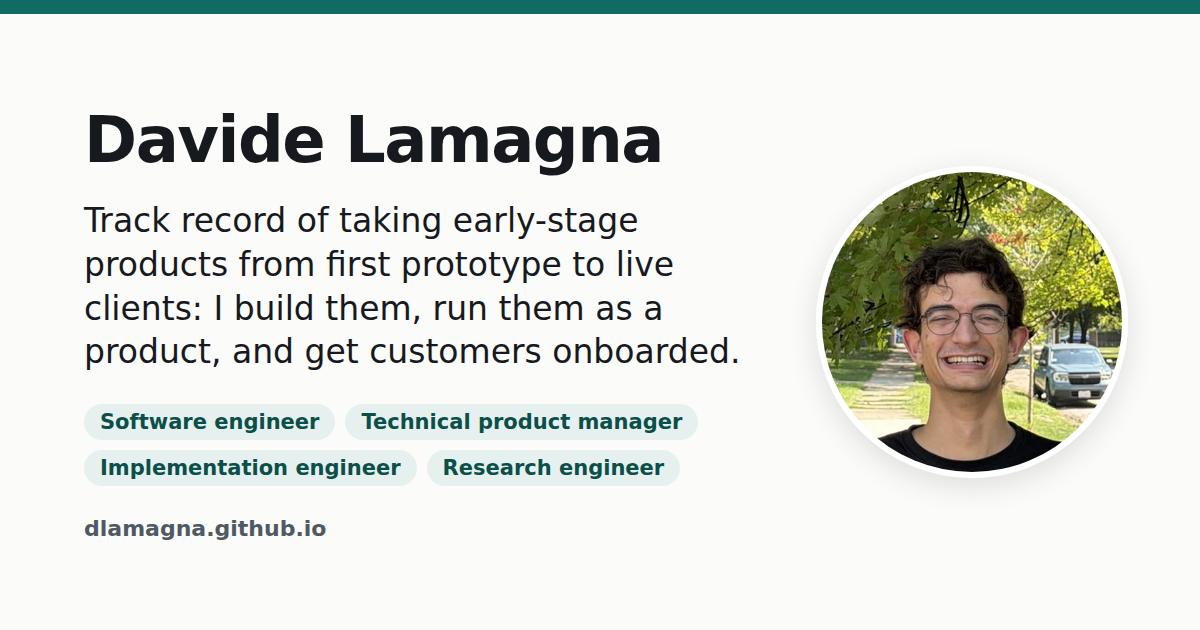
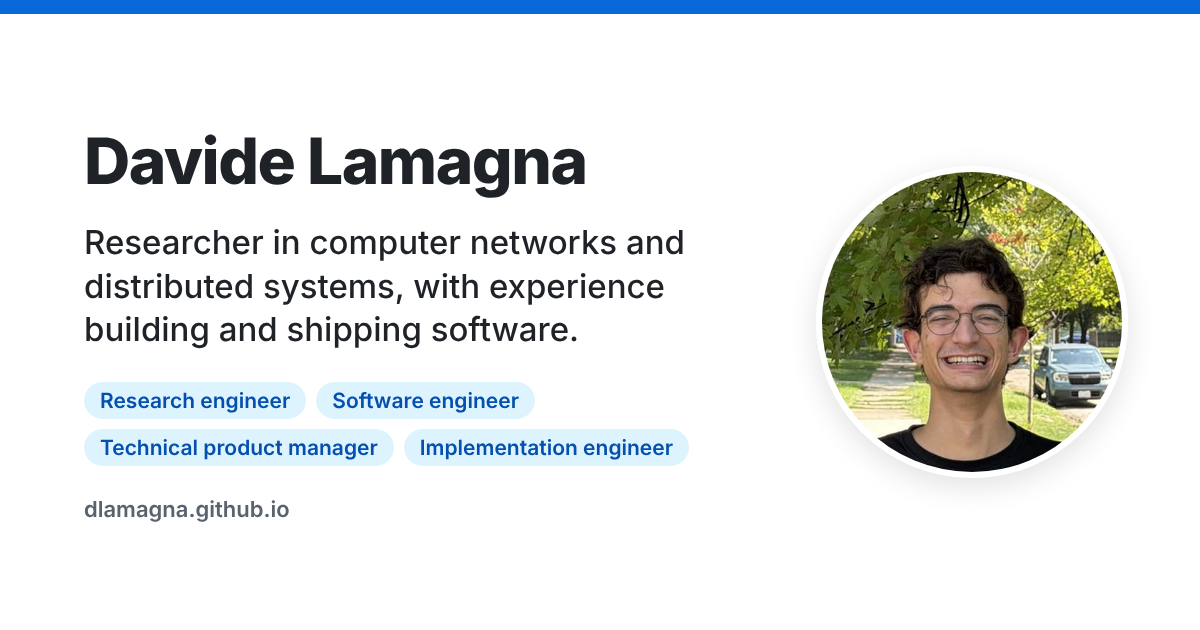
Default to light mode with blue accents; refresh preview image (#12)
Claude-Session: https://claude.ai/code/session_01HjaXGdJKzXSNgHi2nNHZ7W

Changed region(s): [[0.0617, 0.181, 0.6167, 0.8746], [0.0, 0.0, 1.0, 0.0302]]

diff --git a/scripts/og-image.html b/scripts/og-image.html
@@ -10,16 +10,16 @@
   html, body { margin: 0; width: 1200px; height: 630px; }
   body {
     font-family: system-ui, -apple-system, "Segoe UI", Roboto, "Helvetica Neue", Arial, sans-serif;
-    background: #fbfbf9; color: #16191d;
+    background: #ffffff; color: #1f2328;
     display: grid; grid-template-columns: 1fr 300px; gap: 56px; align-items: center;
     padding: 0 84px; box-sizing: border-box;
-    border-top: 14px solid #0f6b63;
+    border-top: 14px solid #0969da;
   }
   .name { font-size: 64px; font-weight: 800; letter-spacing: -1.5px; margin: 0; }
   .headline { font-size: 33px; line-height: 1.32; font-weight: 500; margin: 22px 0 0; }
   .tags { display: flex; flex-wrap: wrap; gap: 10px; margin-top: 30px; }
-  .tags span { background: #e6f1ef; color: #0b4f49; border-radius: 999px; padding: 6px 16px; font-size: 21px; font-weight: 600; }
-  .url { margin-top: 30px; font-size: 22px; color: #4f5964; font-weight: 600; }
+  .tags span { background: #ddf4ff; color: #0550ae; border-radius: 999px; padding: 6px 16px; font-size: 21px; font-weight: 600; }
+  .url { margin-top: 30px; font-size: 22px; color: #59636e; font-weight: 600; }
   img { width: 300px; height: 300px; border-radius: 50%; object-fit: cover; border: 6px solid #fff; box-shadow: 0 8px 30px rgba(0,0,0,.12); }
 </style>
 </head>
@@ -27,7 +27,7 @@
   <div>
     <h1 class="name">Davide Lamagna</h1>
     <p class="headline"><!-- sync:headline -->Researcher in computer networks and distributed systems, with experience building and shipping software.<!-- /sync:headline --></p>
-    <div class="tags"><span>Software engineer</span><span>Technical product manager</span><span>Implementation engineer</span><span>Research engineer</span></div>
+    <div class="tags"><span>Research engineer</span><span>Software engineer</span><span>Technical product manager</span><span>Implementation engineer</span></div>
     <div class="url">dlamagna.github.io</div>
   </div>
   <img src="../assets/img/profile-og.jpg" alt="">

diff --git a/index.html b/index.html
@@ -1,20 +1,20 @@
 <!DOCTYPE html>
-<html lang="en-GB" data-theme="dark" data-theme-toggle="on">
+<html lang="en-GB" data-theme-toggle="on">
 <head>
   <meta charset="UTF-8">
   <meta name="viewport" content="width=device-width, initial-scale=1">
   <title>Davide Lamagna: software engineer and technical product manager</title>
   <meta name="description" content="Researcher in computer networks and distributed systems, with experience building and shipping software.">
   <link rel="canonical" href="https://dlamagna.github.io/">
-  <meta name="color-scheme" content="dark light">
-  <meta name="theme-color" content="#0d1117">
-  <!-- Theme: dark by default (data-theme="dark" on <html>). Applies a saved "light" choice before first paint, to avoid a flash.
-       Dark only, for good: change data-theme-toggle="on" to "off" on <html> above. -->
+  <meta name="color-scheme" content="light dark">
+  <meta name="theme-color" content="#ffffff">
+  <!-- Theme: light by default. Applies a saved "dark" choice before first paint, to avoid a flash.
+       Light only, for good: change data-theme-toggle="on" to "off" on <html> above. -->
   <script>
     (function () {
       var d = document.documentElement;
       if (d.getAttribute('data-theme-toggle') === 'off') return;
-      try { if (localStorage.getItem('theme') === 'light') d.removeAttribute('data-theme'); } catch (e) {}
+      try { if (localStorage.getItem('theme') === 'dark') d.setAttribute('data-theme', 'dark'); } catch (e) {}
     })();
   </script>
 

diff --git a/assets/css/site.css b/assets/css/site.css
@@ -1,4 +1,4 @@
-/* Davide Lamagna: site styles. Dark by default (data-theme="dark" on <html>); the header toggle switches to light and remembers the choice. */
+/* Davide Lamagna: site styles. Light by default; dark when the visitor picks it with the header toggle (data-theme="dark" on <html>). */
 
 :root {
   color-scheme: light;
@@ -8,11 +8,11 @@
   --text: #1f2328;
   --muted: #59636e;        /* 6.3:1 on --bg */
   --border: #d1d9e0;
-  --accent: #1a7f37;       /* 5.1:1 on --bg, used for links and the primary button */
-  --accent-strong: #116329;
+  --accent: #0969da;       /* 5.2:1 on --bg, used for links and the primary button */
+  --accent-strong: #0550ae;
   --on-accent: #ffffff;
-  --tag-bg: #dafbe1;
-  --tag-text: #0f5323;
+  --tag-bg: #ddf4ff;
+  --tag-text: #0550ae;
   --todo-bg: #fff6db;
   --todo-text: #6b4b00;
   --todo-border: #e3c565;
@@ -32,15 +32,15 @@
   --text: #e6edf3;
   --muted: #9aa5b1;      /* 7.6:1 on --bg */
   --border: #30363d;
-  --accent: #56d364;     /* 11:1 on --bg */
-  --accent-strong: #7ee787;
-  --on-accent: #04210d;
-  --tag-bg: #0f2a18;
-  --tag-text: #7ee787;
+  --accent: #58a6ff;     /* 7.9:1 on --bg */
+  --accent-strong: #79c0ff;
+  --on-accent: #04142e;
+  --tag-bg: #0c2340;
+  --tag-text: #79c0ff;
   --todo-bg: #33290d;
   --todo-text: #f3d98a;
   --todo-border: #7a6420;
-  --ok: #56d364;
+  --ok: #3fb950;
   --shadow: none;
 }
 

diff --git a/demos/agentic-devops/index.html b/demos/agentic-devops/index.html
@@ -1,19 +1,19 @@
 <!DOCTYPE html>
-<html lang="en-GB" data-theme="dark" data-theme-toggle="on">
+<html lang="en-GB" data-theme-toggle="on">
 <head>
   <meta charset="UTF-8">
   <meta name="viewport" content="width=device-width, initial-scale=1">
   <title>Agentic DevOps: running a team of coding agents · Davide Lamagna</title>
   <meta name="description" content="How Agentic DevOps works: a Claude Code plugin that lets one lead AI agent run a team of helper agents on the same codebase.">
   <link rel="canonical" href="https://dlamagna.github.io/demos/agentic-devops/">
-  <meta name="color-scheme" content="dark light">
-  <meta name="theme-color" content="#0d1117">
+  <meta name="color-scheme" content="light dark">
+  <meta name="theme-color" content="#ffffff">
   <!-- Same theme switch as the home page: "off" on <html> keeps the page light only. -->
   <script>
     (function () {
       var d = document.documentElement;
       if (d.getAttribute('data-theme-toggle') === 'off') return;
-      try { if (localStorage.getItem('theme') === 'light') d.removeAttribute('data-theme'); } catch (e) {}
+      try { if (localStorage.getItem('theme') === 'dark') d.setAttribute('data-theme', 'dark'); } catch (e) {}
     })();
   </script>
   <link rel="icon" href="../../assets/img/favicon.svg" type="image/svg+xml">

diff --git a/demos/listen2myday/index.html b/demos/listen2myday/index.html
@@ -1,19 +1,19 @@
 <!DOCTYPE html>
-<html lang="en-GB" data-theme="dark" data-theme-toggle="on">
+<html lang="en-GB" data-theme-toggle="on">
 <head>
   <meta charset="UTF-8">
   <meta name="viewport" content="width=device-width, initial-scale=1">
   <title>Listen2MyDay: a journal with the day around it · Davide Lamagna</title>
   <meta name="description" content="How Listen2MyDay works: a journal app that adds the day's music, weather, health and listening stats to each entry.">
   <link rel="canonical" href="https://dlamagna.github.io/demos/listen2myday/">
-  <meta name="color-scheme" content="dark light">
-  <meta name="theme-color" content="#0d1117">
+  <meta name="color-scheme" content="light dark">
+  <meta name="theme-color" content="#ffffff">
   <!-- Same theme switch as the home page: "off" on <html> keeps the page light only. -->
   <script>
     (function () {
       var d = document.documentElement;
       if (d.getAttribute('data-theme-toggle') === 'off') return;
-      try { if (localStorage.getItem('theme') === 'light') d.removeAttribute('data-theme'); } catch (e) {}
+      try { if (localStorage.getItem('theme') === 'dark') d.setAttribute('data-theme', 'dark'); } catch (e) {}
     })();
   </script>
   <link rel="icon" href="../../assets/img/favicon.svg" type="image/svg+xml">

diff --git a/assets/js/main.js b/assets/js/main.js
@@ -157,8 +157,8 @@
     });
   }
 
-  // Light/dark toggle. Dark is the default; the choice is remembered in localStorage.
-  // To keep the site dark only, set data-theme-toggle="off" on <html> in index.html:
+  // Light/dark toggle. Light is the default; the choice is remembered in localStorage.
+  // To keep the site light only, set data-theme-toggle="off" on <html> in index.html:
   // the button stays hidden and saved choices are ignored (see also the inline script in <head>).
   var root = document.documentElement;
   var toggle = document.getElementById('theme-toggle');
@@ -188,7 +188,7 @@
       try { localStorage.setItem('theme', dark ? 'dark' : 'light'); } catch (err) { /* storage blocked: the choice lasts for this page only */ }
     });
   } else {
-    shareTheme(true); // toggle off: the site is dark only, so the project sites open dark too
+    shareTheme(false); // toggle off: the site is light only, so the project sites open light too
   }
 
   if (document.querySelector('[data-render]')) fetch('data/projects.json')
